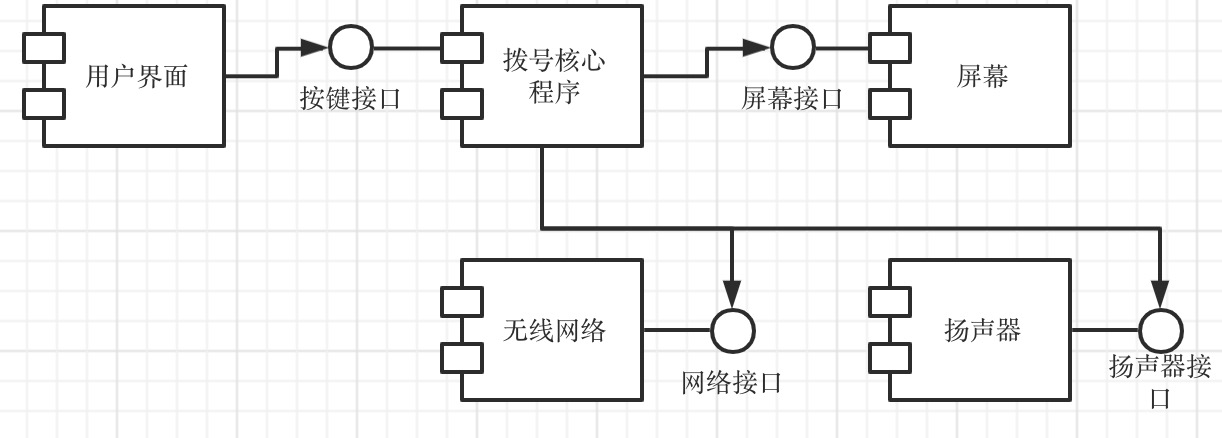
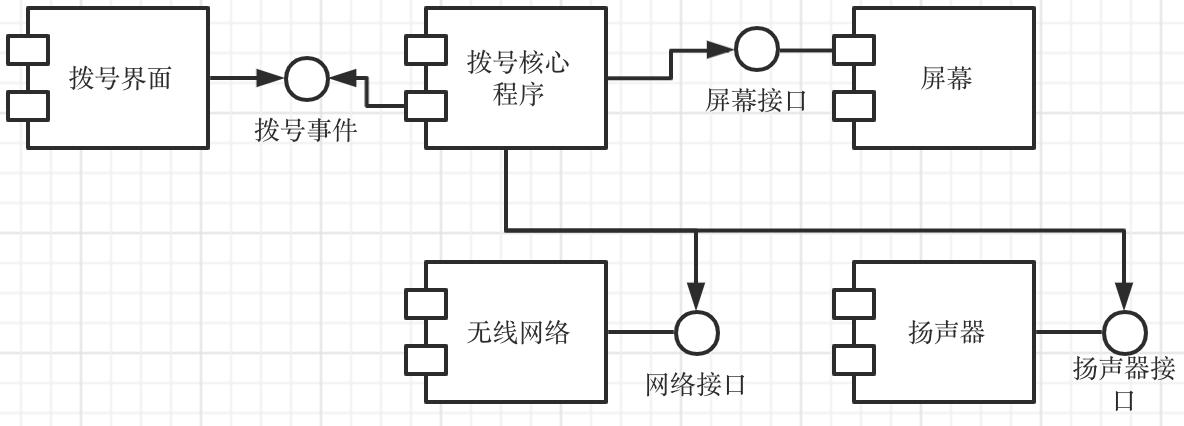
update

diff --git a/chapter1/UML练习2.md b/chapter1/UML练习2.md
@@ -1,5 +1,11 @@
 #电话拨号
 
+## 分析
+
+1. 按键（数字、Send）以事件发出，解耦界面操作和核心处理程序
+2. 核心处理程序根据按键事件类型，来控制屏幕、扬声器、无线网络
+3. 抽象各硬件接口（屏幕、扬声器），方便对接不同类型的硬件
+
 ## 组件图
 
 ![uml2](uml2.png)
